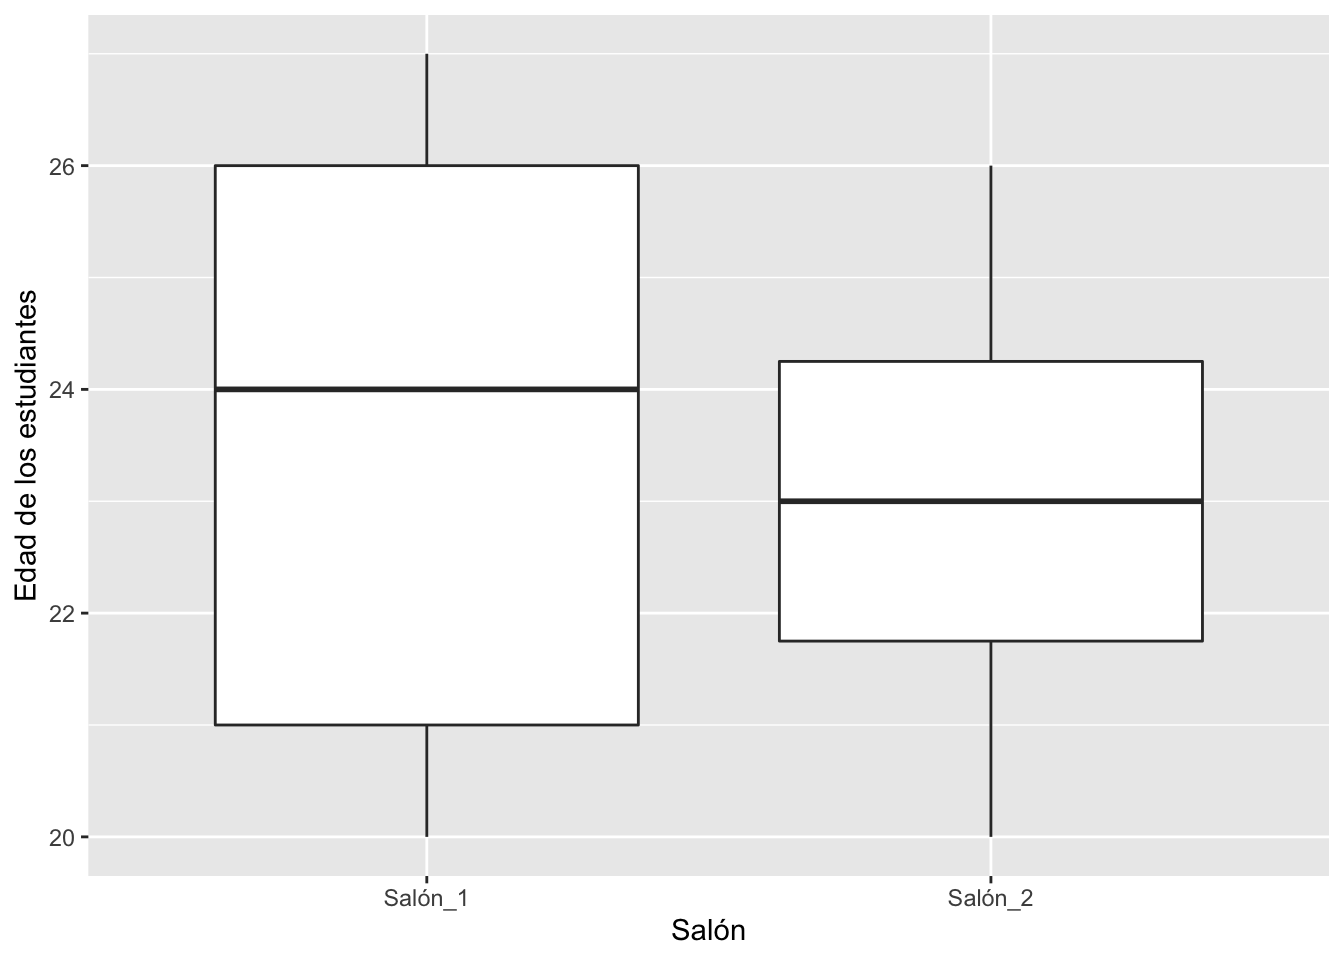
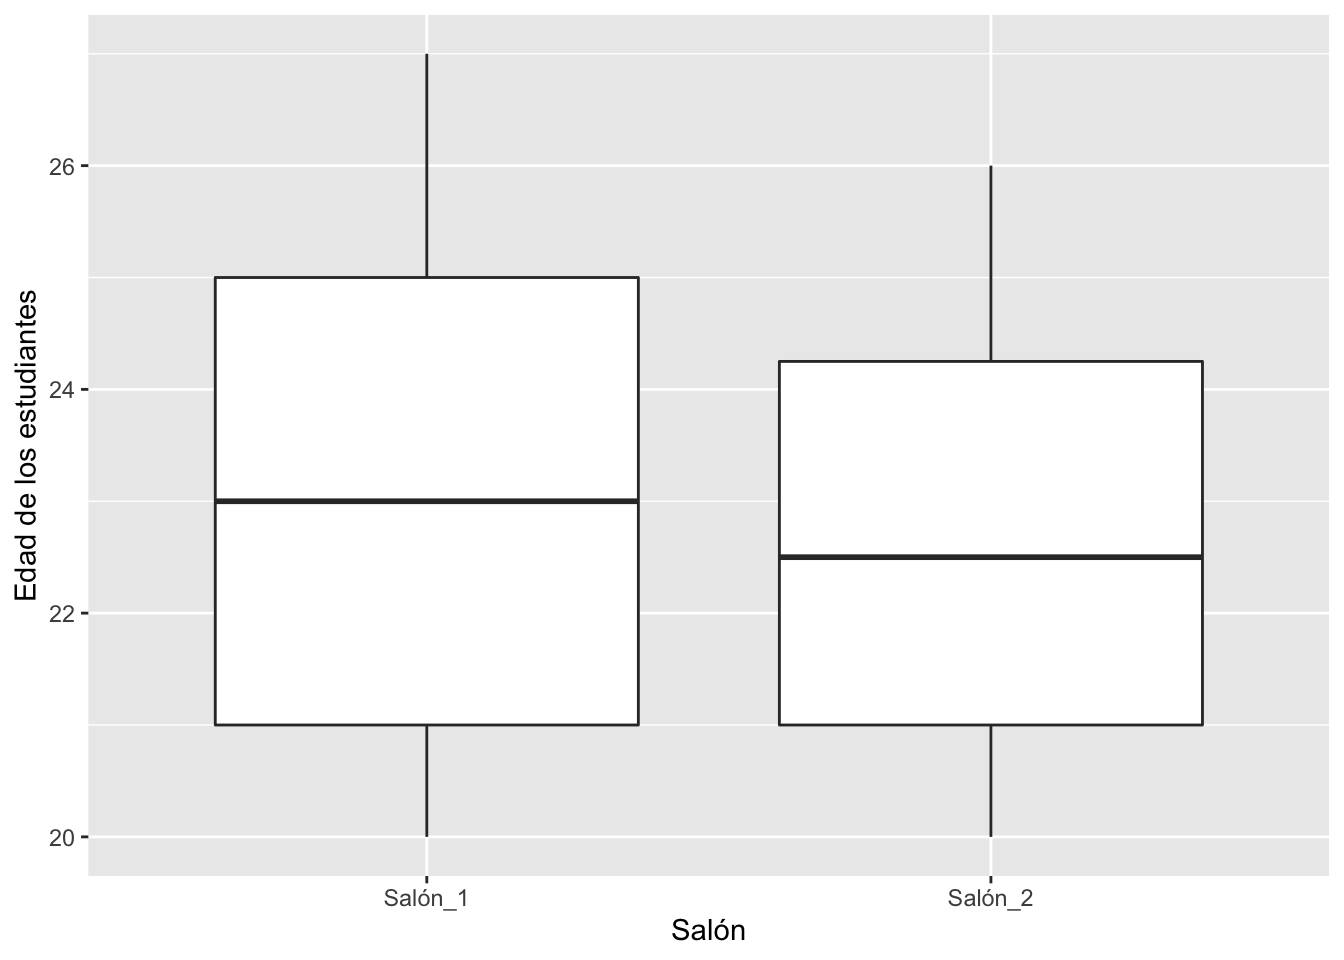
ylm

diff --git a/G1-ggplot2.html b/G1-ggplot2.html
@@ -348,10 +348,7 @@ div.tocify {
     </div>
     <div id="navbar" class="navbar-collapse collapse">
       <ul class="nav navbar-nav">
-        <li>
-  <a></a>
-</li>
-<li class="dropdown">
+        <li class="dropdown">
   <a href="#" class="dropdown-toggle" data-toggle="dropdown" role="button" aria-expanded="false">
     Visualización
      
@@ -492,17 +489,17 @@ div.tocify {
 <p>Veamos un ejemplo. Si uno lista las edades de estudiantes universitarios de dos salones, tendremos el reto de intentar discernir si sus edades son aproximadamente iguales o diferentes solo al mirar la lista. ¿Será posible? A ver, intenta explicar cuál es la diferencia (si existe alguna) en las edades de las dos listas siguientes.</p>
 <p>Edades del salón 1:</p>
 <pre><code>## $V1
-##   [1] 21 27 24 26 26 24 23 21 23 23 26 24 26 27 21 23 23 24 21 22 27 20 26 27 24
-##  [26] 21 24 20 24 25 24 21 21 24 21 20 21 27 20 26 25 26 21 20 20 24 26 23 23 20
-##  [51] 26 24 24 20 25 26 21 25 22 23 23 25 25 21 26 21 23 27 20 27 25 20 26 27 27
-##  [76] 27 25 22 23 25 24 20 20 24 23 23 27 22 21 22 27 25 24 22 23 27 21 20 21 26</code></pre>
+##   [1] 26 27 27 20 23 20 25 25 24 22 22 22 22 21 21 22 20 24 24 25 23 20 27 25 24
+##  [26] 20 20 27 25 27 27 24 20 27 21 20 26 23 21 20 26 20 23 24 20 25 23 24 23 24
+##  [51] 21 25 21 26 20 21 21 21 23 22 27 21 22 25 20 23 22 20 20 22 27 23 22 27 22
+##  [76] 22 22 20 23 20 24 20 23 20 20 22 21 22 23 27 21 25 25 21 27 24 23 23 20 24</code></pre>
 <hr />
 <p>Edades del salón 2:</p>
 <pre><code>## $V1
-##   [1] 23 22 20 25 21 21 25 26 26 21 24 23 22 20 23 24 22 21 24 24 22 20 23 24 24
-##  [26] 21 24 22 22 25 22 25 23 22 21 23 23 25 26 26 20 24 25 25 21 22 23 21 20 22
-##  [51] 22 25 21 22 26 23 23 26 21 26 26 21 24 26 22 23 24 21 22 24 20 25 24 23 21
-##  [76] 20 23 21 22 25 22 22 23 26 20 20 21 24 24 25 25 22 24 25 25 24 24 26 22 20</code></pre>
+##   [1] 25 22 21 20 22 25 23 21 21 22 24 20 24 21 21 26 26 22 25 24 24 21 25 24 26
+##  [26] 26 22 22 20 22 26 24 25 21 21 24 23 24 25 20 20 21 20 24 23 20 21 20 25 21
+##  [51] 26 21 25 25 20 25 21 24 20 24 23 26 26 24 20 21 21 24 21 22 22 25 20 24 22
+##  [76] 24 26 22 22 20 24 22 25 21 22 26 24 20 20 24 22 22 23 23 26 23 22 25 26 21</code></pre>
 <p>Probablemente notes que no es evidente a primera vista cuál es la diferencia entre las dos listas de datos. Necesitamos ayuda para visualizar la diferencia. A continuación se explican un par de maneras de ver esa misma información.</p>
 <hr />
 <div id="resumir-la-información-en-tablas" class="section level2">
@@ -873,13 +870,13 @@ df%&gt;%
   <tbody class="gt_table_body">
     <tr>
       <td class="gt_row gt_left">Salón_1</td>
-      <td class="gt_row gt_right">23.49</td>
+      <td class="gt_row gt_right">22.87</td>
       <td class="gt_row gt_center">20</td>
       <td class="gt_row gt_center">27</td>
     </tr>
     <tr>
       <td class="gt_row gt_left">Salón_2</td>
-      <td class="gt_row gt_right">22.99</td>
+      <td class="gt_row gt_right">22.82</td>
       <td class="gt_row gt_center">20</td>
       <td class="gt_row gt_center">26</td>
     </tr>
